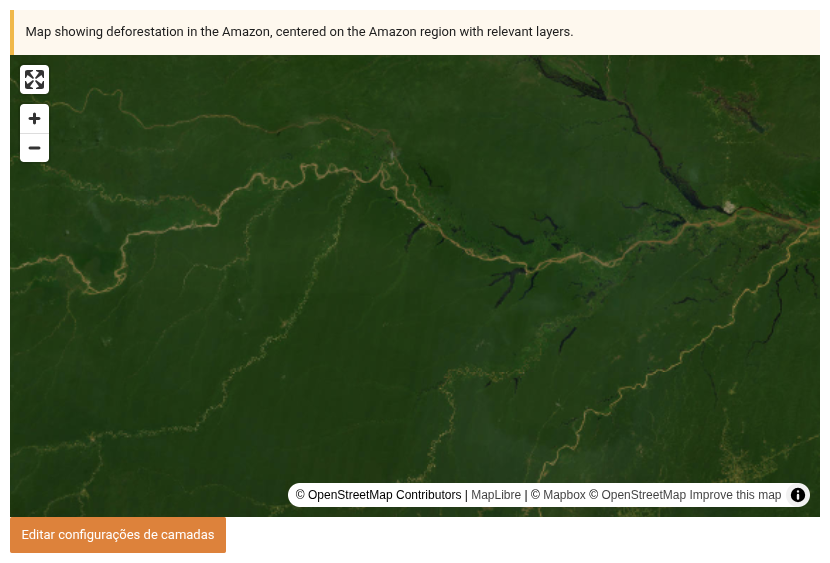
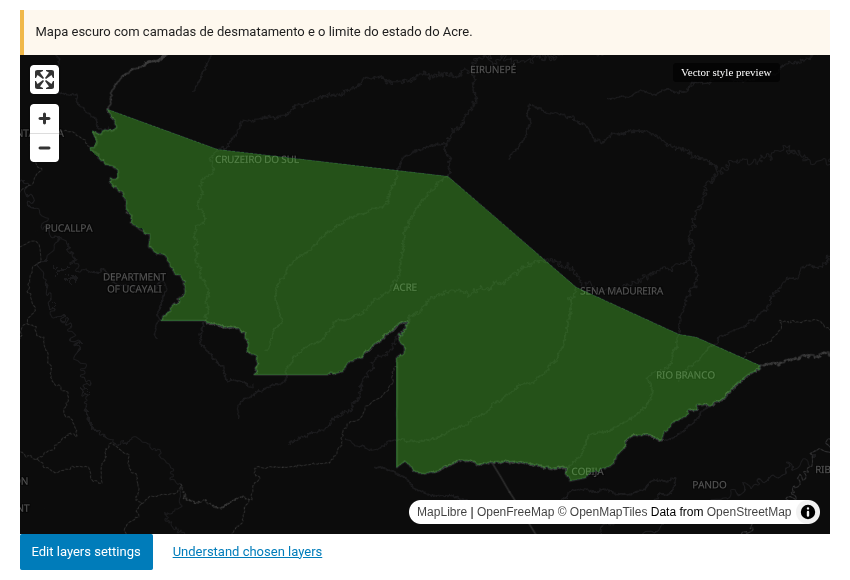
Update docs

diff --git a/docs/minimap.md b/docs/minimap.md
@@ -44,6 +44,18 @@ The AI remembers your conversation, so each refinement builds on the previous co
 
 ![Minimap block chat](img/minimap-block-edit3.png)
 
+## Understanding the chosen layers
+
+Ever wondered why the AI picked a specific layer? Below the map preview, click **Understand chosen layers** to open the **Map layers** panel in the block sidebar. For each layer, you'll see:
+
+- **Title and type** — e.g. "Deforestation alerts — mapbox".
+- **Description** — the layer's excerpt, when available.
+- **Why it was chosen** — the AI's own explanation for including the layer in this map.
+- **Automatic style notice** — when the AI had to style a layer that had no saved style, so you know it can be customized.
+- **Themes and source** — the layer's themes and data attribution, for disambiguation when similarly named layers exist.
+
+![Understand chosen layers](img/minimap-understand-layers.png)
+
 ## AI-generated layers (Minilayer)
 
 If you have a Mapbox API key configured, the AI can **generate custom map layers** when existing layers don't cover what you need. During chat, ask the AI to create a layer (e.g., "Can you generate a deforestation heatmap for the Amazon?"). The AI will ask for your confirmation before generating — it never creates layers without explicit approval. The new layer is added to the map automatically with AI-suggested styling (colors and filters) that you can later override in the layer settings modal via the **"Use AI Default Style"** checkbox.
@@ -54,11 +66,11 @@ After generation, the minimap behaves like any JEO map:
 
 - **Pan and zoom**: Drag to pan, scroll to zoom.
 - **Layers**: Thematic layers with legends.
-- **Pins**: Geolocation pins from the post's geolocation data.
+- **Pins**: Geolocation pins from the post's geolocation data. Use the **Geolocation Pins** panel (Show pins: Yes/No) to control them — they render live in the editor preview and on the frontend.
 - **Base layer**: Automatically chosen (dark/light) based on layer colors, or manually selected.
 
 ## Requirements
 
 - An AI provider must be configured in **Jeo → AI** (see [AI Settings](ai-settings.md)).
 - For best results, index your posts and layers in the Knowledge Base (RAG tab).
-- For AI-generated layers, a Mapbox API key is also required.
+- For AI-generated thematic layers, a Mapbox API key is also required. Boundary layers (municipalities, states, indigenous lands) are generated as GeoJSON and work without a Mapbox key.

diff --git a/docs/layer-post.md b/docs/layer-post.md
@@ -12,13 +12,16 @@ Entering the Layer post editor, you'll see a preview of the current layer (or a 
 
 On the **Layer settings** panel, you can change the layer type.
 
-JEO supports four layer types out-of-the-box:
+JEO supports seven layer types out-of-the-box:
 
 | Type | Required fields | Optional fields | Best for |
 |------|-----------------|-----------------|----------|
 | [Mapbox styles](https://docs.mapbox.com/studio-manual/overview/map-styling/) | Style ID (`username/style-id`) | Access token | Complete styled maps created in Mapbox Studio |
-| [Mapbox tilesets](https://docs.mapbox.com/help/glossary/tileset/) | Tileset ID (`username.tilesetid`) | Access token | Raster data hosted on Mapbox |
-| [Mapbox vector tiles](https://docs.mapbox.com/vector-tiles/reference/) (MVTs) | Tileset ID, source layer, geometry type | Access token | Vector data with interactive features |
+| [Style JSON](https://maplibre.org/maplibre-style-spec/) | Style URL or inline style JSON | — | Public MapLibre GL styles; works without an API key |
+| [Mapbox tilesets](https://docs.mapbox.com/help/glossary/tileset/) (raster) | Tileset ID (`username.tilesetid`) | Access token | Raster data hosted on Mapbox |
+| [Mapbox vector tilesets](https://docs.mapbox.com/vector-tiles/reference/) | Tileset ID, source layer | Access token | Vector data hosted on Mapbox |
+| [Mapbox vector tiles](https://docs.mapbox.com/vector-tiles/reference/) (MVTs) | Tileset URL, source layer, geometry type | Access token | Vector data with interactive features |
+| [GeoJSON](https://geojson.org/) | GeoJSON URL or inline GeoJSON | Layer style | Client-side polygon data, including AI-generated boundary layers |
 | [TileLayers](https://en.wikipedia.org/wiki/Tiled_web_map) | Tile URL template (`https://.../{z}/{x}/{y}.png`) | — | Third-party tile servers (XYZ URLs) |
 
 If the **Access token** field is left empty, the layer will use the Mapbox API key configured in **Jeo → Settings**. You only need to fill this field when the layer requires a different token than the global one.
